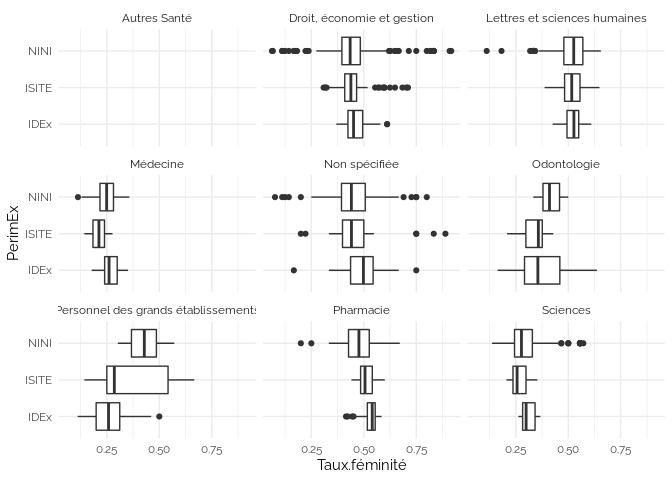
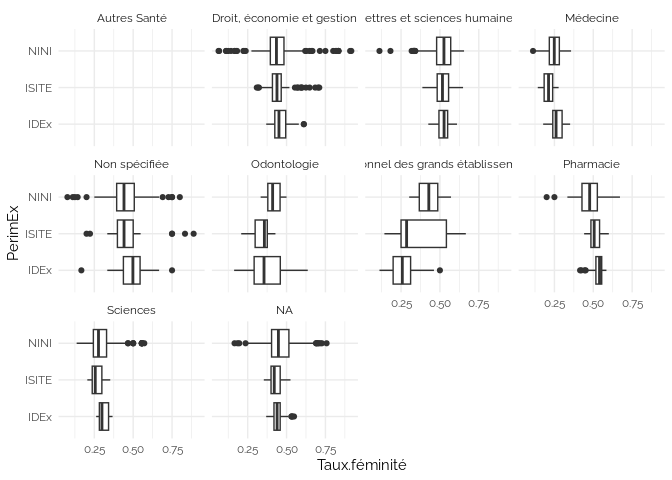
anr vs féminité

diff --git a/sexe/sexe.md b/sexe/sexe.md
@@ -1,14 +1,60 @@
 Untitled
 ================
 
+    ## `summarise()` has grouped output by 'Rentrée', 'type', 'pid', 'Sexe'. You can
+    ## override using the `.groups` argument.
+    ## Joining, by = "pid"
     ## `summarise()` has grouped output by 'Rentrée', 'pid', 'Sexe'. You can override
     ## using the `.groups` argument.
     ## Joining, by = "pid"
 
-    ## Warning: Removed 232 rows containing non-finite values (stat_boxplot).
+## Taux de féminité enseignant : Permanents vs non permanents
+
+    ## `summarise()` has grouped output by 'Etablissement'. You can override using the
+    ## `.groups` argument.
+
+    ## Warning: ggrepel: 49 unlabeled data points (too many overlaps). Consider
+    ## increasing max.overlaps
+
+![](sexe_files/figure-gfm/pvsnp-1.png)<!-- -->
+
+## IDEX, ISITE
+
+    ## Warning: Removed 235 rows containing non-finite values (`stat_boxplot()`).
 
 ![](sexe_files/figure-gfm/map-1.png)<!-- -->
 
-    ## Warning: Removed 49 rows containing non-finite values (stat_boxplot).
+    ## Warning: Removed 49 rows containing non-finite values (`stat_boxplot()`).
 
 ![](sexe_files/figure-gfm/evol-1.png)<!-- -->
+
+    ## `summarise()` has grouped output by 'Rentrée', 'PerimEx'. You can override
+    ## using the `.groups` argument.
+
+![](sexe_files/figure-gfm/evol.agr-1.png)<!-- -->
+
+    ## # A tibble: 10 × 2
+    ##    Etablissement                            Rentrée.min
+    ##    <chr>                                          <int>
+    ##  1 CY Cergy Paris Université                       2010
+    ##  2 Nantes Université                               2010
+    ##  3 Université Clermont Auvergne                    2010
+    ##  4 Université de Bourgogne                         2010
+    ##  5 Université de Franche-Comté                     2010
+    ##  6 Université de Lille                             2012
+    ##  7 Université de Lorraine                          2010
+    ##  8 Université de Montpellier                       2012
+    ##  9 Université de Pau et des Pays de l'Adour        2010
+    ## 10 Université Gustave Eiffel                       2010
+
+## Taux féminité vs PIA
+
+    ## `summarise()` has grouped output by 'pid', 'Etablissement', 'Comparable'. You
+    ## can override using the `.groups` argument.
+    ## Joining, by = "pid"
+
+![](sexe_files/figure-gfm/anr-1.png)<!-- -->
+
+![](sexe_files/figure-gfm/anr.hors.pia-1.png)<!-- -->
+
+![](sexe_files/figure-gfm/anr.pia-1.png)<!-- -->
